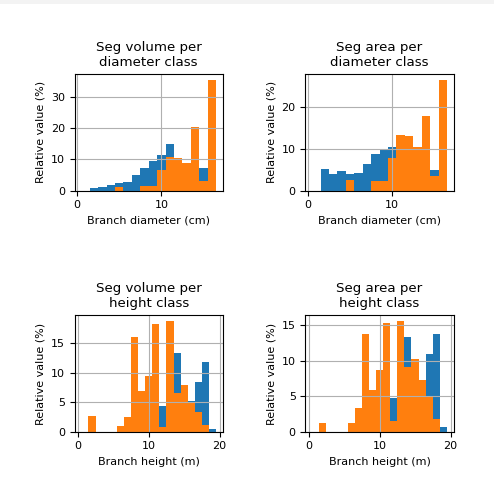
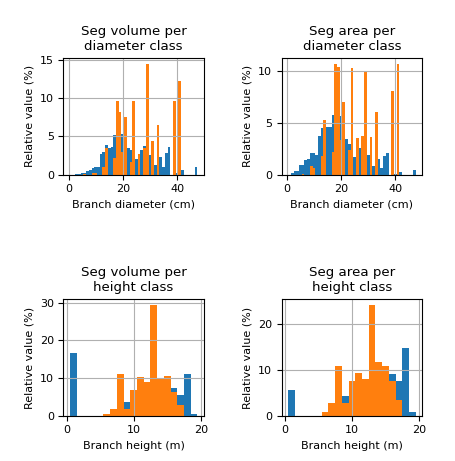
include trunk in branch data

diff --git a/TreeQSMSteps/tree_data.py b/TreeQSMSteps/tree_data.py
@@ -940,10 +940,10 @@ def branch_distribution(treedata, branch, dist):
         (dict): Updated dictionary with branch distribution results.
     """
     # Extract branch properties (excluding the first element, as in MATLAB's 2:end)
-    BOrd = branch['order'][1:]
-    BVol = branch['volume'][1:]
-    BAre = branch['area'][1:]
-    BLen = branch['length'][1:]
+    BOrd = branch['order']#[1:]
+    BVol = branch['volume']#[1:]
+    BAre = branch['area']#[1:]
+    BLen = branch['length']#[1:]
     if len(BOrd) == 0:
         treedata[f'VolBranch{dist}'] = np.array([0])
         treedata[f'VolBranch1{dist}'] = np.array([0])
@@ -956,23 +956,23 @@ def branch_distribution(treedata, branch, dist):
         return treedata
     # Determine parameters based on distribution type
     if dist == 'Dia':
-        Par = branch['diameter'][1:]  # Diameter distribution
+        Par = branch['diameter']#[1:]  # Diameter distribution
         n = int(np.ceil(100 * np.max(Par)))  # Number of bins
         a = 0.005  # Diameter bin size (1 cm classes)
     elif dist == 'Hei':
-        Par = branch['height'][1:]  # Height distribution
+        Par = branch['height']#[1:]  # Height distribution
         n = int(np.ceil(treedata['TreeHeight']))  # Number of bins
         a = 1  # Height bin size (1 m classes)
     elif dist == 'Ang':
-        Par = branch['angle'][1:]  # Angle distribution
+        Par = branch['angle']#[1:]  # Angle distribution
         n = 18  # Number of bins
         a = 10  # Angle bin size (10-degree classes)
     elif dist == 'Zen':
-        Par = branch['zenith'][1:]  # Zenith angle distribution
+        Par = branch['zenith']#[1:]  # Zenith angle distribution
         n = 18  # Number of bins
         a = 10  # Zenith bin size (10-degree classes)
     elif dist == 'Azi':
-        Par = branch['azimuth'][1:] + 180  # Azimuth angle distribution
+        Par = branch['azimuth']+180#[1:] + 180  # Azimuth angle distribution
         n = 36  # Number of bins
         a = 10  # Azimuth bin size (10-degree classes)
     else:

diff --git a/main.py b/main.py
@@ -1031,7 +1031,7 @@ class SingleFileProcessingWindow(QMainWindow):
 
     def process_file(self):
         self.append_text("Processing file. This may take several minutes...\n")
-        
+        self.button.setEnabled(False)
         task = SingleQSM(self,self.points,self.inputs)
         self.qsm_thread = BackgroundProcess(task)
         task.finished.connect(self.complete_processing)
@@ -1072,7 +1072,7 @@ class SingleFileProcessingWindow(QMainWindow):
         
     def complete_processing(self,package):
         self.append_text("Processing Complete...\n")
-
+        self.button.setEnabled(True)
         data,plot = package
         self.cyl_plots =plot
         self.data=data

diff --git a/paper/paper.md b/paper/paper.md
@@ -50,10 +50,10 @@ bibliography: paper.bib
 # Summary
 
 [PyTLidar](https://github.com/Landscape-CV/PyTLiDAR) is an open-source Python package that reconstructs 3D tree Quantitative Structure Models (QSM) from Terresrial lidar Scan (TLS) data, 
-providing a user-friendly tool improving and expanding based on the MATLAB-based [TreeQSM](https://github.com/InverseTampere/TreeQSM?tab=readme-ov-file) method [@TreeQSM]. 
+providing a user-friendly tool that improves and expands about the MATLAB-based [TreeQSM](https://github.com/InverseTampere/TreeQSM?tab=readme-ov-file) method [@TreeQSM]. 
 PyTLidar provides an accessible, extensible, and GUI-driven workflow for researchers and practitioners in forestry, ecology, and 3D vegetation modeling. The package also integrates interactive visualization tools for inspecting model quality and derived tree metrics. The ease of use and installation of PyTLidar is of great value to ecologists and other users that are less familiar with matlab and other more computationally technical tools. 
 
-The key features of PyTLidar are a recreation of the TreeQSM core functionality, and an enhanced method of setting up experiments and viewing results. It provides functionality for loading and extracting point cloud data from .las and .laz files as well as automatic calculation of a range of initial parameters for the QSM model based on point cloud structure. The QSM creation methods include generation of a Voronoi partition of the point cloud, segment detection, and cylinder fitting. PyTLidar also calculates various tree metrics including branch length and volume, crown volume, and more, and provides these results in flat file form as well as visual graphics. QSMs are also output in an interactive html format which can be viewed directly in the GUI as well as saved and shared. All of this is packaged within a simple to use GUI as well as providing support for command line and direct Python interfacing. 
+The key features of PyTLidar are a recreation of the TreeQSM core functionality, and an enhanced method of setting up experiments and viewing results. It provides functionality for loading and extracting point cloud data from .las and .laz files as well as automatic calculation of a range of initial parameters for the QSM model based on point cloud structure. The QSM creation methods include generation of a Voronoi partition of the point cloud, segment detection, detection of parent-child relationships of branches and cylinder fitting. PyTLidar also calculates various tree metrics such as branch length and volume and provides these results in flat file form as well as visual graphics. QSMs are also output in an interactive html format which can be viewed directly in the GUI as well as saved and shared. All of this is packaged within a simple to use GUI as well as providing support for command line and direct Python interfacing. 
 
 
 
@@ -69,21 +69,21 @@ The use of QSM software on point cloud data permits estimation of detailed compo
 providing detailed information for fine-scale estimates of AGB, canopy architecture, and more.
 TreeQSM is a software that has been widely used in forestry and ecology for modeling tree structures from TLS point clouds [@TERRYN2020170]. 
 Comparing to other similar softwares, TreeQSM stands out for speed, reliability, and ease of use, 
-while [SimpleForest](https://www.simpleforest.org/)[@Hackenberg2021] (available within Computree) offers broad functionality but suffers from a large installation size and less intuitive interface. 
-[AdQSM](https://github.com/GuangpengFan/AdQSM)[@Fan2020] is extremely fast and simple but lacks advanced features and source code access. 
-[aRchi](https://github.com/umr-amap/aRchi) [@aRchi] provides various functions but is slow, not sufficiently documented, and harder to set up. 
-[3dForest](https://github.com/VUKOZ-OEL/3d-forest-classic)[@3DForest] has a promising GUI but is currently unstable, crashing when loading data. There is also a lack of viable options within Python specifically.
+while [SimpleForest](https://www.simpleforest.org/)[@Hackenberg2021] (available within Computree) seems to be similarly capable to TreeQSM, but is only available through Computree, which has been undergoing an extended upgrade process and lacks up-to-date documentation. 
+[AdQSM](https://github.com/GuangpengFan/AdQSM)[@Fan2020] is extremely fast and simple but lacks many of the statistics and visualizations other tools have and has not been officially released by the authors. 
+[aRchi](https://github.com/umr-amap/aRchi) [@aRchi] provides various functions but takes significantly longer to create a QSM than comparable packages. 
+[3dForest](https://github.com/VUKOZ-OEL/3d-forest-classic)[@3DForest] has a promising GUI but was unstable during testing, crashing when loading data. There is also a lack of viable options within Python specifically.
 While TreeQSM is used in many applications, its reliance on MATLAB makes it less accessible for users, and its lack of makes the tool less user-friendly and its parameter tuning less efficient. Thus we aimed to port and improve TreeQSM
 
 PyTLidar addresses these issues by providing a native Python implementation of TreeQSM’s core algorithms, 
-wrapped in a streamlined graphical interface that allows researchers to visualize and evaluate their models. 
+wrapped in a streamlined graphical interface that allows researchers to visualize and evaluate models. 
 It promotes reproducible and exploratory research by offering transparent parameter control, open-source licensing, and seamless integration into Python-based analysis workflows. 
-This work lowers the barrier for adoption of QSM modeling by removing the MATLAB dependency, enhancing accessibility for the broader open-source geospatial and ecological modeling community. PyTLidar is currently being used and was developed for ongoing projects in ecological monitoring. 
+This work lowers the barrier for adoption of QSM modeling by removing the MATLAB dependency, enhancing accessibility for the broader open-source geospatial and ecological modeling community. PyTLidar is currently being used for ongoing projects in ecological monitoring. 
 
 
 # Method
 
-TreeQSM models individual trees from terrestrial lidar scans by first creating a voronoi partition of the point cloud. This assigns the points within the cloud to an initial cluster based on it's proximity to an initial point. The size of these regions, referred to as cover sets, are determined by the input patch diameters. Since the cover sets form the building blocks for reconstructing the tree’s global shape, the selection of the patch diameter can have major impact on the quality of the resulting QSM. Larger patch diameters will connect points further away, counteracting occlusion, but will lose detail. Conversely, smaller patch diameters will increase detail, but be more susceptible to occlusion. As part of the construction of the initial voronoi partition, the algorithm also determines the neighboring cover sets. Based on topological investigation of neighboring cover sets, the point cloud is segmented into individual branches, with parent-children relationships of branches recorded. This process is repeated, recreating the voronoi partition using a range of patch diameters based on location along the tree. Points determined to be along the trunk use size values closer to the max patch diameter, while points further up the tree use values closer to min patch diameter. After the second segment detection, each branch is approximated as a collection of connected cylinders of varying radius, length, and orientation. The cylinders are fit using standard root-finding methods to minimize distance between points and approximated cylinder surface. 
+TreeQSM models individual trees from terrestrial lidar scans by first creating a Voronoi partition of the point cloud. This assigns the points within the cloud to an initial cluster based on its proximity to an initial point. The size of these regions, referred to as cover sets, are determined by the input patch diameters. Since the cover sets form the building blocks for reconstructing the tree’s global shape, the selection of the patch diameter can have major impact on the quality of the resulting QSM. Larger patch diameters will connect points further away, counteracting occlusion, with a corresponding loss in detail. Conversely, smaller patch diameters will increase detail, but be more susceptible to occlusion. As part of the construction of the initial partition, the algorithm also determines the neighboring cover sets. Based on topological investigation of neighboring cover sets, the point cloud is segmented into individual branches, with parent-children relationships of branches recorded. This process is repeated, recreating the cover sets using a range of patch diameters based on location along the tree. Points determined to be along the trunk use size values closer to the max patch diameter, while points further up the tree use values closer to min patch diameter. After the second segment detection, each branch is approximated as a collection of connected cylinders of varying radius, length, and orientation. The cylinders are fit using standard root-finding methods to minimize distance between points and approximated cylinder surface. 
 This cylinder-based representation offers a simple yet effective regularization of the complex tree structure, supporting downstream analyses such as stem volume estimation or structural trait extraction [@rs5020491] [@rs70404581].
 
 # Software Architecture
@@ -131,7 +131,7 @@ Other planned enhancements include functions provided to users for processing li
 filtering, tree segmentation and leaf/wood separation. The intended goal for this package is to provide a single source for any user processing terrestrial lidar to perform every step of 
 their analysis. 
 
-# Acknowledgements
+# Acknowledg ments
 
 We acknowledge contributions and guidance during the development of the package from Dori Peters, Amir Hossein Alikhah Mishamandani and other staff from the Human-Augmented Analytics Group to make this happen.
 
